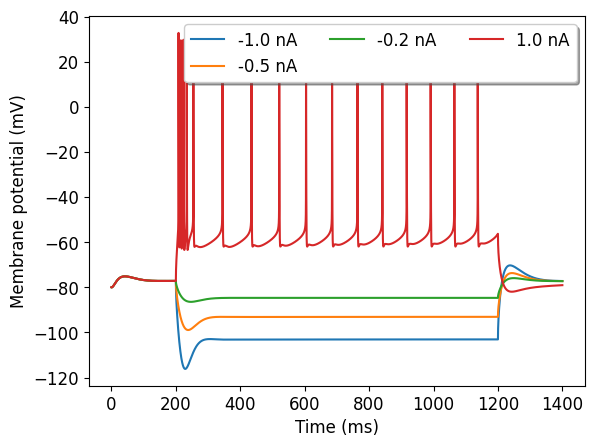
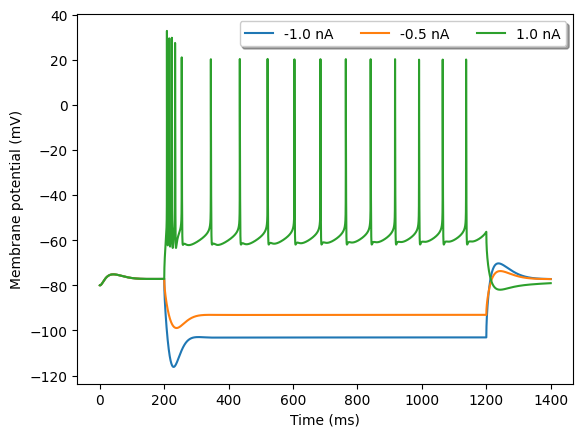
Added the Bahl Model

Changed region(s): [[0.0, 0.0, 0.988, 0.9817]]

diff --git a/Standardised_MD_Script/MD-script.py b/Standardised_MD_Script/MD-script.py
@@ -76,14 +76,14 @@ def command_line_parser():
 
 def generate_morphology(file, name, save = True, nogui = False):
     if save:
-        file = "imgs/" + name + ".png"
+        filename = "imgs/" + name + ".png"
     else:
-        file = None
+        filename = None
 
     PlotMorphology.plot_2D(
         file,
         nogui = nogui,
-        save_to_file = "imgs/" + name + ".png",
+        save_to_file = filename,
         title = name
         )
 
@@ -169,7 +169,8 @@ def generate_if_iv_custom(file, name, cell, custom = [-0.5,0,0.5,1], time = 0.02
         analysis_delay = delay,
         save_voltage_traces_to = vt_name,
         pre_zero_pulse = pre,
-        post_zero_pulse = post
+        post_zero_pulse = post,
+        font_size=10
         )
 
 def generate_custom_plot(dat_file, delay = False, save = False, nogui = False):
@@ -198,7 +199,7 @@ if __name__ == "__main__":
     
     #NeuroML and LEMS files
     name = args.model
-    file_name = name + ".md"
+    file_name = "MD_Files/" + name + ".md"
     file = args.netfile
     cell_file = args.cellfile
     lems_file = args.lemsfile
@@ -207,7 +208,7 @@ if __name__ == "__main__":
     lems_model = read_lems_file(lems_file, include_includes=True)
     nml_doc = read_neuroml2_file(cell_file, include_includes=True)
     cell = nml_doc.cells[0]
-    print('%s %s' %(cell.id, cell.notes))
+    #print('%s %s' %(cell.id, cell.notes))
     print(cell.id)
     
     #Get Metadata
@@ -216,14 +217,14 @@ if __name__ == "__main__":
 
     if not args.nosim:
         #Plot Morphology
-        #generate_morphology(file, name, save = False, nogui = False)
+        #generate_morphology(file, name, save = True, nogui = True)
 
         #Channel Analysis
         #run_channel_analysis(channels, save = False, nogui = False)
 
         #IV & IF Curves
-        generate_if_iv(file, name, cell.id, save = True, nogui = False, pre = 200, post = 200)
-        generate_if_iv_custom(file, name, cell.id, custom = [-1.0, -0.5, -0.2, 1.0], save = True, pre = 200, post = 200, nogui = False)
+        #generate_if_iv(file, name, cell.id, save = True, nogui = False, pre = 200, post = 200)
+        #generate_if_iv_custom(file, name, cell.id, custom = [-1.0, -0.5, 1.0], save = True, pre = 200, post = 200, nogui = False)
 
         pass
 
@@ -236,8 +237,7 @@ if __name__ == "__main__":
 
         with open(file_name, "w") as file:
             file.write("# " + name + "\n\n")  #Write Cell Name
-            file.write("%s %s" %(cell.id, cell.notes) + "\n\n")
-            file.write('<img src="imgs/' + name + '.png" height="300" />' + "\n\n")
+            file.write('<img src="../imgs/' + name + '.png" height="300" />' + "\n\n")
             #Add 3D Morphology
             #file.write("")
             
@@ -253,9 +253,9 @@ if __name__ == "__main__":
             #file.write("")
 
             file.write("# Electrophysiology" + "\n\n")
-            file.write('<img src="imgs/' + name + '_Vtraces.png" />' + "\n\n")
-            file.write('<img src="imgs/' + name + 'IF.png" />' + "\n\n")
-            file.write('<img src="imgs/' + name + 'IV.png" />' + "\n\n")
+            file.write('<img src="../imgs/' + name + '_Vtraces.png" />' + "\n\n")
+            file.write('<img src="../imgs/' + name + 'IF.png" />' + "\n\n")
+            file.write('<img src="../imgs/' + name + 'IV.png" />' + "\n\n")
             #Add Voltage Traces
 
     print("\n")

diff --git a/Standardised_MD_Script/MD_Files/Bahl2012ReducedL5PyramidalCell.md b/Standardised_MD_Script/MD_Files/Bahl2012ReducedL5PyramidalCell.md
@@ -1,0 +1,18 @@
+# Bahl2012ReducedL5PyramidalCell
+
+<img src="../imgs/Bahl2012ReducedL5PyramidalCell.png" height="300" />
+
+# Channel Information
+
+Ion Channels: ['ih', 'kca', 'kfast', 'km', 'kslow', 'nap', 'nat', 'pas', 'sca']
+
+<table border="1"></table>
+
+# Electrophysiology
+
+<img src="../imgs/Bahl2012ReducedL5PyramidalCell_Vtraces.png" />
+
+<img src="../imgs/Bahl2012ReducedL5PyramidalCellIF.png" />
+
+<img src="../imgs/Bahl2012ReducedL5PyramidalCellIV.png" />
+

diff --git a/Standardised_MD_Script/MD_Files/Hay2011L5bPyramidalCell.md b/Standardised_MD_Script/MD_Files/Hay2011L5bPyramidalCell.md
@@ -1,0 +1,18 @@
+# Hay2011L5bPyramidalCell
+
+<img src="../imgs/Hay2011L5bPyramidalCell.png" height="300" />
+
+# Channel Information
+
+Ion Channels: ['Ca_HVA', 'Ca_LVAst', 'Ih', 'Im', 'K_Pst', 'K_Tst', 'NaTa_t', 'Nap_Et2', 'SK_E2', 'SKv3_1', 'pas']
+
+<table border="1"></table>
+
+# Electrophysiology
+
+<img src="../imgs/Hay2011L5bPyramidalCell_Vtraces.png" />
+
+<img src="../imgs/Hay2011L5bPyramidalCellIF.png" />
+
+<img src="../imgs/Hay2011L5bPyramidalCellIV.png" />
+
